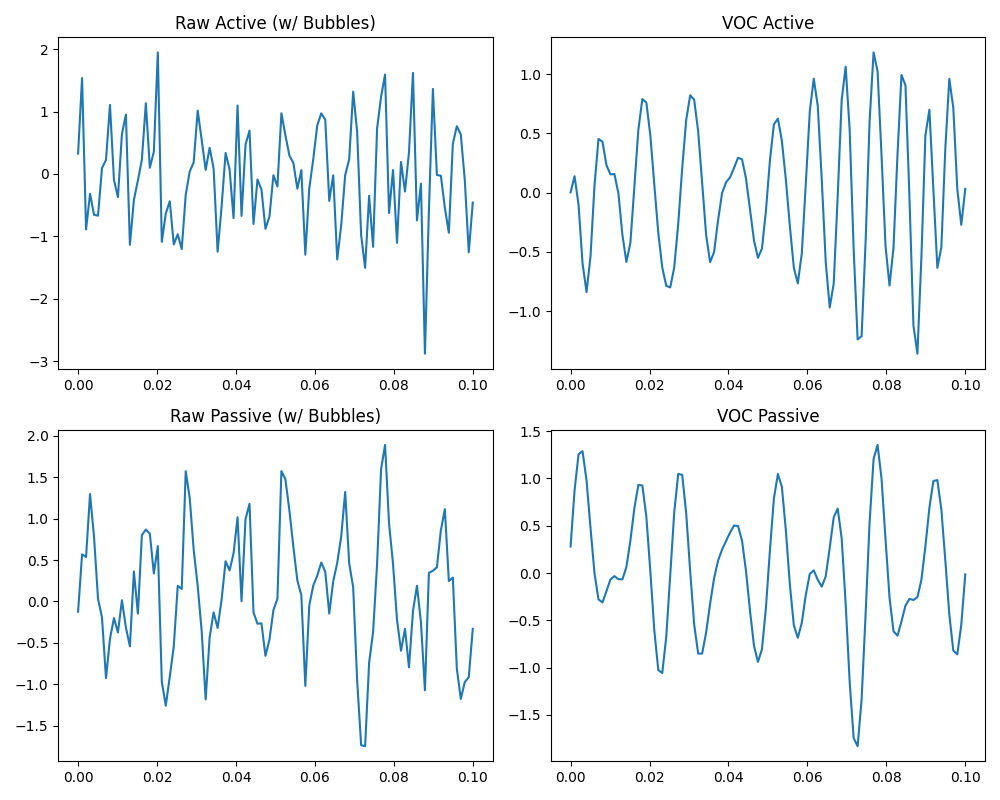
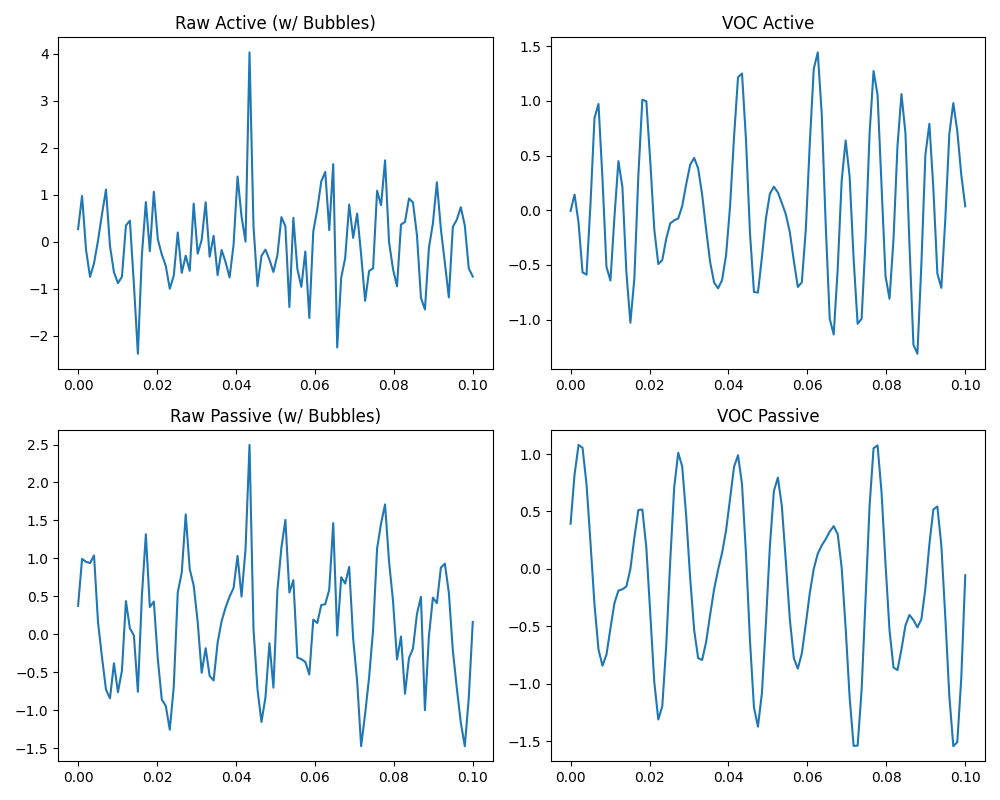
Added Golden Upgrade code and MIT LICENSE

diff --git a/src/voc_sim.py b/src/voc_sim.py
@@ -1,0 +1,77 @@
+import numpy as np
+from scipy.signal import chirp, butter, filtfilt
+import matplotlib.pyplot as plt
+
+# Parameters
+fs = 1000  # Sample rate (Hz, scaled for sim; crank to 100e3+ for real CHIRP)
+t = np.linspace(0, 0.1, int(fs * 0.1))  # 100ms window
+
+# Active Forward-Facing CHIRP with Multipath + Bubbles
+chirp_signal = chirp(t, f0=50, f1=200, t1=0.1, method='linear')
+echo_delay = int(0.015 * fs)  # 15m range delay
+echo = np.roll(chirp_signal, echo_delay) * 0.7
+multipath = np.roll(echo, echo_delay // 2) * 0.3  # Ghost echo
+bubbles = np.random.exponential(0.5, len(t)) * np.sin(2 * np.pi * np.random.uniform(200, 500, len(t)) * t)  # Bubble bursts (flagged: Bubbles Added)
+noise = np.random.normal(0, 0.3, len(t))
+raw_active = echo + multipath + bubbles + noise
+
+# VOC Filter: Bandpass for target freqs (50-200Hz)
+lowcut = 50
+highcut = 200
+nyq = 0.5 * fs
+low = lowcut / nyq
+high = highcut / nyq
+b, a = butter(4, [low, high], btype='band')
+voc_active = filtfilt(b, a, raw_active)
+
+# SNR Calc
+def snr(sig, noise_est):
+    return 10 * np.log10(np.var(sig) / np.var(noise_est))
+
+snr_raw_active = snr(echo, raw_active - echo)
+snr_voc_active = snr(echo, voc_active - echo)
+
+# Passive Mode: Grunt + Waves/Bio + Bubbles
+grunt = 0.8 * np.sin(2 * np.pi * 80 * t) + 0.5 * np.sin(2 * np.pi * 120 * t)  # Fish sines
+waves = 0.2 * np.sin(2 * np.pi * 5 * t)  # Low-freq waves
+bio_noise = np.random.normal(0, 0.2, len(t))
+raw_passive = grunt + waves + bio_noise + bubbles * 0.5  # Bubbles Added
+
+# VOC: Bandpass for low-freq targets
+lowcut_pass = 5
+highcut_pass = 150
+low_p = lowcut_pass / nyq
+high_p = highcut_pass / nyq
+b_p, a_p = butter(4, [low_p, high_p], btype='band')
+voc_passive = filtfilt(b_p, a_p, raw_passive)
+
+snr_raw_passive = snr(grunt, raw_passive - grunt)
+snr_voc_passive = snr(grunt, voc_passive - grunt)
+
+# Stability: Corr over 1000 noisy runs (passive example)
+def stability_test(signal, noise_std, n_runs=1000):
+    corrs = []
+    for _ in range(n_runs):
+        noisy = signal + np.random.normal(0, noise_std, len(t))
+        filtered = filtfilt(b_p, a_p, noisy)
+        corrs.append(np.corrcoef(signal, filtered)[0,1])
+    return np.mean(corrs)
+
+stab = stability_test(grunt, 0.3)
+
+# Output results
+print(f"Active Raw SNR: {snr_raw_active:.2f} dB")
+print(f"Active VOC SNR: {snr_voc_active:.2f} dB (Gain: {snr_voc_active - snr_raw_active:.2f} dB)")
+print(f"Passive Raw SNR: {snr_raw_passive:.2f} dB")
+print(f"Passive VOC SNR: {snr_voc_passive:.2f} dB (Gain: {snr_voc_passive - snr_raw_passive:.2f} dB)")
+print(f"Stability (1000 runs): {stab:.3f}")
+
+# Plot
+fig, axs = plt.subplots(2, 2, figsize=(10, 8))
+axs[0,0].plot(t[:500], raw_active[:500]); axs[0,0].set_title('Raw Active (w/ Bubbles)')
+axs[0,1].plot(t[:500], voc_active[:500]); axs[0,1].set_title('VOC Active')
+axs[1,0].plot(t[:500], raw_passive[:500]); axs[1,0].set_title('Raw Passive (w/ Bubbles)')
+axs[1,1].plot(t[:500], voc_passive[:500]); axs[1,1].set_title('VOC Passive')
+plt.tight_layout()
+plt.savefig('voc_sim_bubbles.png')
+print("Plot saved as voc_sim_bubbles.png")
